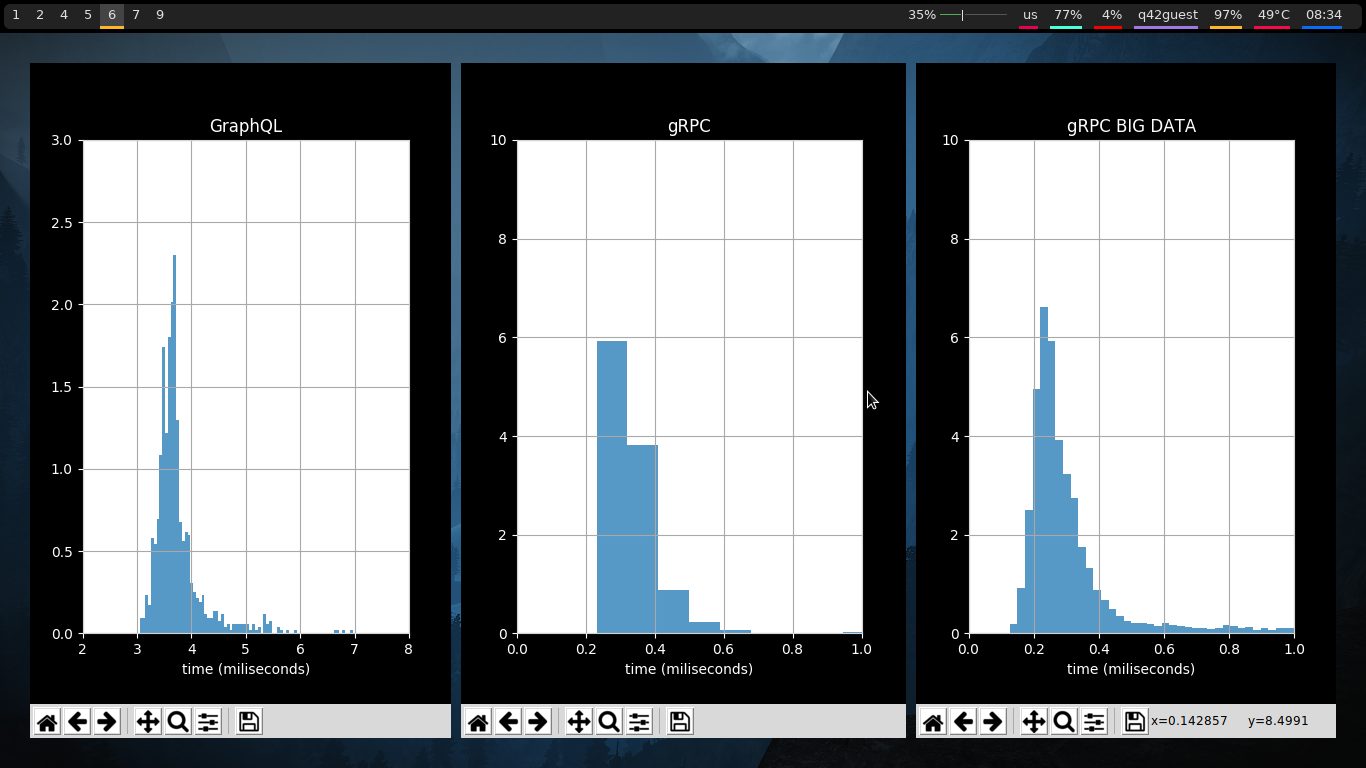
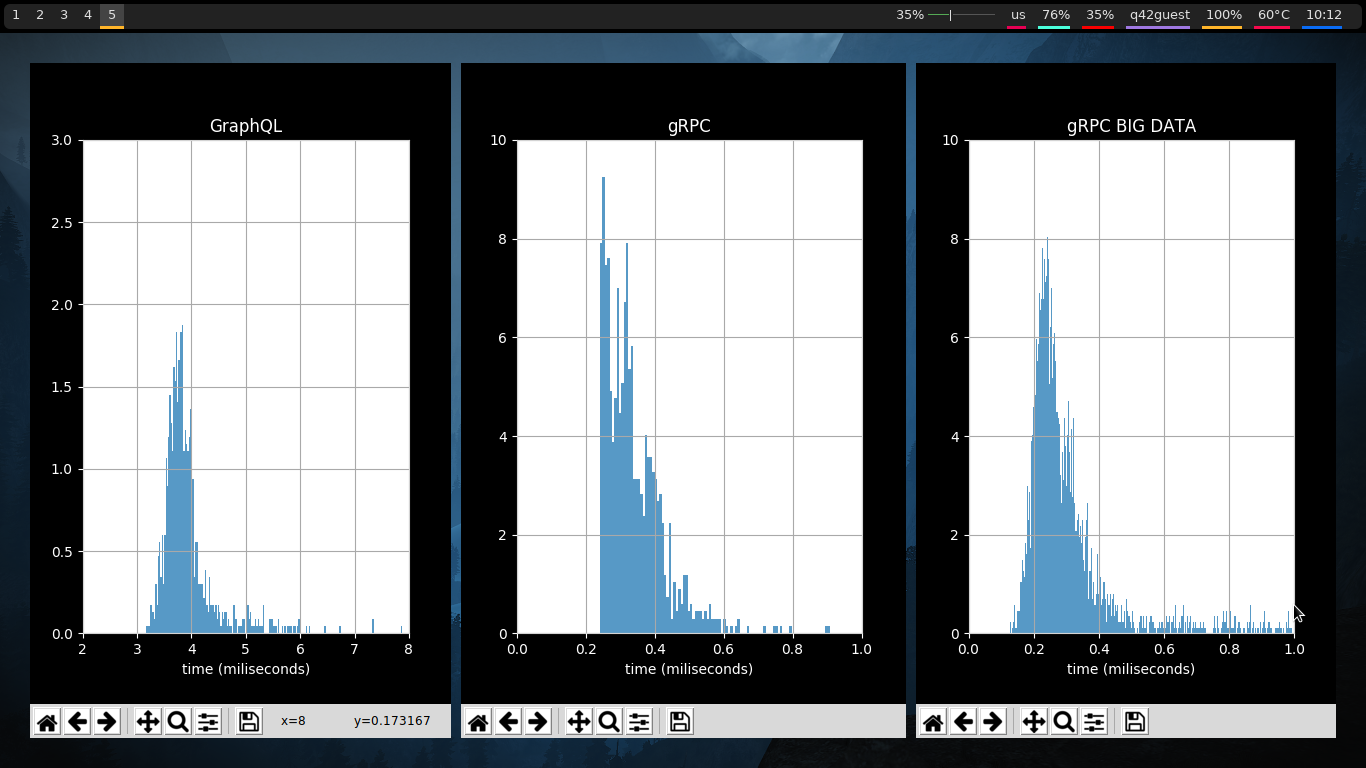
nice bins

diff --git a/GraphQLvsgRPC/gRPC/plotfilebigdata.py b/GraphQLvsgRPC/gRPC/plotfilebigdata.py
@@ -25,13 +25,17 @@ fig = plt.figure()
 timesstrings = [line.rstrip('\n') for line in open('resultsbigdata.txt')]
 # array of strings
 timesstringarray = np.asarray(timesstrings)
-# array of flaots
+# array of floats
 timesarray = [float(numeric_string) for numeric_string in timesstringarray]
 
-itterations = len(timesarray)
+filteredarray = [x for x in timesarray if x < 1.0 ]    
 
-n, bins, patches = plt.hist(timesarray, bins=1000, density=1, alpha=0.75)
-avaragetime = sum(timesarray) / float(len(timesarray))
+itterations = len(filteredarray)
+
+binitter = itterations / 10
+
+n, bins, patches = plt.hist(filteredarray, bins=int(binitter), density=1, alpha=0.75)
+avaragetime = sum(filteredarray) / float(len(filteredarray))
 
 print("average gRPC time is ", avaragetime)
 

diff --git a/GraphQLvsgRPC/gRPC/plotfile.py b/GraphQLvsgRPC/gRPC/plotfile.py
@@ -25,13 +25,18 @@ fig = plt.figure()
 timesstrings = [line.rstrip('\n') for line in open('results.txt')]
 # array of strings
 timesstringarray = np.asarray(timesstrings)
-# array of flaots
+# array of floats
 timesarray = [float(numeric_string) for numeric_string in timesstringarray]
 
-itterations = len(timesarray)
 
-n, bins, patches = plt.hist(timesarray, bins=1000, density=1, alpha=0.75)
-avaragetime = sum(timesarray) / float(len(timesarray))
+filteredarray = [x for x in timesarray if x < 1.0 ]    
+
+itterations = len(filteredarray)
+
+binitter = itterations / 10
+
+n, bins, patches = plt.hist(filteredarray, bins=int(binitter), density=1, alpha=0.75)
+avaragetime = sum(filteredarray) / float(len(filteredarray))
 
 print("average gRPC time is ", avaragetime)
 
